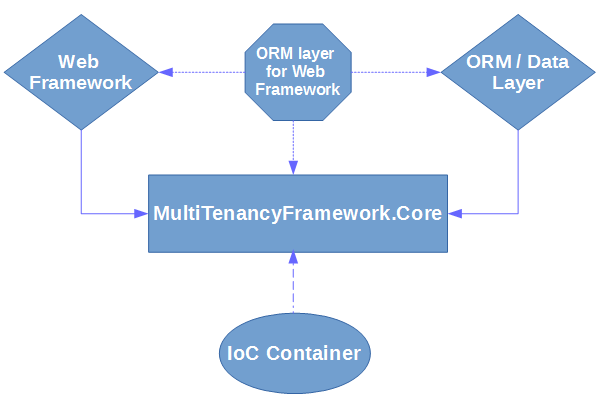
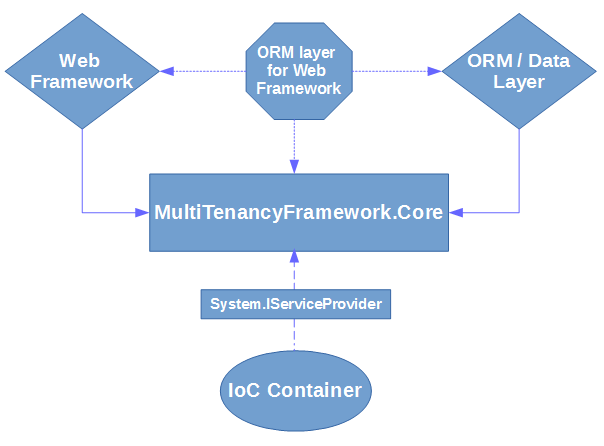
Undaed Architecture diagram; fixed some bugs related to ActionAccessPrivilege entity

diff --git a/MultiTenancyFramework.NHibernate/NHManager/NHSessionManager.cs b/MultiTenancyFramework.NHibernate/NHManager/NHSessionManager.cs
@@ -43,6 +43,15 @@ namespace MultiTenancyFramework.NHibernate.NHManager
         public static Action<ISessionFactory> SessionFactoryCreated;
 
         /// <summary>
+        /// At some point, we'll scan for the assemblies where entities are defined. So, supply these assemblies.
+        /// (Just the assembly names).
+        /// <para>Alternatively, you can provide these assembly names in config file as a comma-separated list:
+        /// AppSettings key should be "EntityAssemblies"
+        /// </para> 
+        /// </summary>
+        public static Func<string[]> AddEntityAssemblies;
+
+        /// <summary>
         /// Use thi method to set DAO.EntityName when it's possible there is a subtype of the baseType 
         /// in the other entity assemblies
         /// </summary>
@@ -60,7 +69,10 @@ namespace MultiTenancyFramework.NHibernate.NHManager
                     }
                 }
             }
-            foreach (var assemblyName in Utilities.EntityAssemblies.Where(x => x.IsNotContainedIn(AssemblyClasses.Keys)))
+            var entityAssemblies = AddEntityAssemblies?.Invoke() ?? new string[0];
+            var allEntityAssemblies = new HashSet<string>(Utilities.EntityAssemblies.Union(entityAssemblies));
+            allEntityAssemblies.Add("MultiTenancyFramework.Core"); //The only ony we're sure of.
+            foreach (var assemblyName in allEntityAssemblies.Where(x => x.IsNotContainedIn(AssemblyClasses.Keys)))
             {
                 try
                 {
@@ -362,7 +374,7 @@ namespace MultiTenancyFramework.NHibernate.NHManager
                 var otherMappingFiles = AppDomain.CurrentDomain.GetAssemblies().Where(x => x.GetName().Name.EndsWith(".NHibernate"));
                 if (otherMappingFiles.Any())
                 {
-                    foreach  (var file in otherMappingFiles)
+                    foreach (var file in otherMappingFiles)
                     {
                         mappingFiles.Add(file.GetName().Name);
                     }
@@ -386,7 +398,7 @@ namespace MultiTenancyFramework.NHibernate.NHManager
                             .Where(x => !typeof(IAmHostedCentrally).IsAssignableFrom(x));
                     }
                 }
-                
+
                 cfg.BeforeBindMapping += (sender, args) => args.Mapping.autoimport = false;
             }
 

diff --git a/MVC5/MultiTenancyFramework.Mvc/Logic/ActionAccessPrivilegeLogic.cs b/MVC5/MultiTenancyFramework.Mvc/Logic/ActionAccessPrivilegeLogic.cs
@@ -7,15 +7,15 @@ using System.Linq;
 
 namespace MultiTenancyFramework.Logic
 {
-    public class PrivilegeLogic : CoreLogic<Privilege>
+    public class ActionAccessPrivilegeLogic : CoreLogic<ActionAccessPrivilege>
     {
-        public PrivilegeLogic() : base(MyServiceLocator.GetInstance<IPrivilegeDAO<Privilege>>())
+        public ActionAccessPrivilegeLogic() : base(MyServiceLocator.GetInstance<IPrivilegeDAO<ActionAccessPrivilege>>())
         {
         }
 
-        public override Privilege Retrieve(long id)
+        public override ActionAccessPrivilege Retrieve(long id)
         {
-            Privilege entity;
+            ActionAccessPrivilege entity;
             if (DataCacheMVC.AllPrivileges.TryGetValue(id, out entity))
             {
                 return entity;
@@ -23,7 +23,7 @@ namespace MultiTenancyFramework.Logic
             return null;
         }
         
-        public override IList<Privilege> RetrieveAll()
+        public override IList<ActionAccessPrivilege> RetrieveAll()
         {
             return DataCacheMVC.AllPrivileges.Values.ToList();
         }
@@ -33,14 +33,14 @@ namespace MultiTenancyFramework.Logic
            return  QueryProcessor.Process(new GetAreasQuery());
         }
 
-        public override IList<Privilege> RetrieveAllActive()
+        public override IList<ActionAccessPrivilege> RetrieveAllActive()
         {
             return DataCacheMVC.AllPrivileges.Values.Where(x => !x.IsDisabled).ToList();
         }
 
-        public RetrievedData<Privilege> Search(string name, AccessScope? scope, int page, int pageSize)
+        public RetrievedData<ActionAccessPrivilege> Search(string name, AccessScope? scope, int page, int pageSize)
         {
-            var query = new GetPrivilegesByGridSearchParamsQuery
+            var query = new GetActionAccessPrivilegesByGridSearchParamsQuery
             {
                 AccessScope = scope,
                 Name = name,
@@ -50,7 +50,7 @@ namespace MultiTenancyFramework.Logic
             return QueryProcessor.Process(query);
         }
         
-        public override void OnAfterCommittingChanges(Privilege e)
+        public override void OnAfterCommittingChanges(ActionAccessPrivilege e)
         {
             if (e.IsDeleted)
             {

diff --git a/MVC5/MultiTenancyFramework.Mvc.NHibernate/Queries/GetActionAccessPrivilegesByGridSearchParamsQueryHandler.cs b/MVC5/MultiTenancyFramework.Mvc.NHibernate/Queries/GetActionAccessPrivilegesByGridSearchParamsQueryHandler.cs
@@ -1,0 +1,34 @@
+using MultiTenancyFramework.Data;
+using MultiTenancyFramework.Entities;
+using MultiTenancyFramework.NHibernate;
+using System;
+using System.Collections.Generic;
+using System.Linq;
+using NHibernate.Criterion;
+using MultiTenancyFramework.Data.Queries;
+
+namespace MultiTenancyFramework.NHibernate.Queries
+{
+    public class GetActionAccessPrivilegesByGridSearchParamsQueryHandler : CoreGeneralWithGridPagingDAO<Privilege>, IDbQueryHandler<GetActionAccessPrivilegesByGridSearchParamsQuery, RetrievedData<ActionAccessPrivilege>>
+    {
+        public GetActionAccessPrivilegesByGridSearchParamsQueryHandler()
+        {
+            EntityName = NHManager.NHSessionManager.GetEntityNameToUseInNHSession(typeof(Privilege));
+        }
+
+        public RetrievedData<ActionAccessPrivilege> Handle(GetActionAccessPrivilegesByGridSearchParamsQuery theQuery)
+        {
+            var session = BuildSession();
+            var query = session.QueryOver<ActionAccessPrivilege>(EntityName);
+            if (!string.IsNullOrWhiteSpace(theQuery.Name))
+            {
+                query = query.Where(x => x.Name.IsInsensitiveLike(theQuery.Name) || x.DisplayName.IsInsensitiveLike(theQuery.Name));
+            }
+            if (theQuery.AccessScope.HasValue && theQuery.AccessScope.Value > 0)
+            {
+                query = query.Where(x => x.Scope == theQuery.AccessScope.Value);
+            }
+            return RetrieveUsingPaging(query, theQuery.PageIndex, theQuery.PageSize);
+        }
+    }
+}

diff --git a/MVC5/MultiTenancyFramework.Mvc/Logic/DataCacheMVC.cs b/MVC5/MultiTenancyFramework.Mvc/Logic/DataCacheMVC.cs
@@ -31,14 +31,14 @@ namespace MultiTenancyFramework.Mvc.Logic
             }
         }
 
-        public static Dictionary<long, Privilege> AllPrivileges
+        public static Dictionary<long, ActionAccessPrivilege> AllPrivileges
         {
             get
             {
-                var allPrivileges = HttpRuntime.Cache[ALL_PRIVILEGES] as Dictionary<long, Privilege>;
+                var allPrivileges = HttpRuntime.Cache[ALL_PRIVILEGES] as Dictionary<long, ActionAccessPrivilege>;
                 if (allPrivileges == null || allPrivileges.Count == 0)
                 {
-                    var _dao = MyServiceLocator.GetInstance<IPrivilegeDAO<Privilege>>();
+                    var _dao = MyServiceLocator.GetInstance<IPrivilegeDAO<ActionAccessPrivilege>>();
                     allPrivileges = _dao.RetrieveAll()?.ToDictionary(x => x.Id);
                     HttpRuntime.Cache[ALL_PRIVILEGES] = allPrivileges;
                 }

diff --git a/MVC5/MultiTenancyFramework.Mvc/Extensions/EntityExtensionsMvc.cs b/MVC5/MultiTenancyFramework.Mvc/Extensions/EntityExtensionsMvc.cs
@@ -62,7 +62,7 @@ namespace MultiTenancyFramework
                 var privilegesInDb = DataCacheMVC.AllPrivileges;
                 if (theUserRoles != null && theUserRoles.Count > 0)
                 {
-                    Privilege privilege;
+                    ActionAccessPrivilege privilege;
                     string roleNames = string.Empty;
                     foreach (var userRole in theUserRoles)
                     {
@@ -71,7 +71,7 @@ namespace MultiTenancyFramework
                         {
                             if (privilegesInDb.TryGetValue(priv, out privilege) && privilege != null)
                             {
-                                list.Add(privilege as ActionAccessPrivilege);
+                                list.Add(privilege);
                             }
                         }
                     }

diff --git a/MVC5/MultiTenancyFramework.Mvc/Identity/UserStore.cs b/MVC5/MultiTenancyFramework.Mvc/Identity/UserStore.cs
@@ -415,7 +415,7 @@ namespace MultiTenancyFramework.Mvc.Identity
 
             if (theUserRoles != null && theUserRoles.Count > 0)
             {
-                Privilege privilege;
+                ActionAccessPrivilege privilege;
                 var functionsInDb = DataCacheMVC.AllPrivileges;
                 foreach (var userRole in theUserRoles)
                 {
@@ -455,7 +455,7 @@ namespace MultiTenancyFramework.Mvc.Identity
 
             if (theUserRoles != null && theUserRoles.Count > 0)
             {
-                Privilege privilege;
+                ActionAccessPrivilege privilege;
                 var functionsInDb = DataCacheMVC.AllPrivileges;
                 foreach (var userRole in theUserRoles)
                 {

diff --git a/MVC5/MultiTenancyFramework.Mvc/Data/Queries/GetActionAccessPrivilegesByGridSearchParamsQuery.cs b/MVC5/MultiTenancyFramework.Mvc/Data/Queries/GetActionAccessPrivilegesByGridSearchParamsQuery.cs
@@ -1,0 +1,17 @@
+using MultiTenancyFramework.Data;
+using MultiTenancyFramework.Data.Queries;
+using MultiTenancyFramework.Entities;
+using System;
+using System.Collections.Generic;
+using System.Linq;
+using System.Text;
+using System.Threading.Tasks;
+
+namespace MultiTenancyFramework.Data.Queries
+{
+    public class GetActionAccessPrivilegesByGridSearchParamsQuery : DbPagingQuery, IDbQuery<RetrievedData<ActionAccessPrivilege>>
+    {
+        public string Name { get; set; }
+        public AccessScope? AccessScope { get; set; }
+    }
+}
